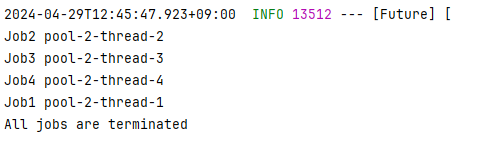
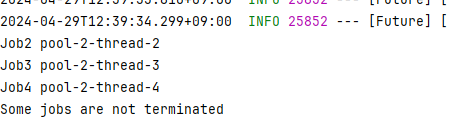
GITBOOK-352: No subject

diff --git a/spring-batch/jpa.md b/spring-batch/jpa.md
@@ -1,2 +1,118 @@
 # Jpa
 
+JpaItemWriter는 JPA를 사용하여 데이터베이스에 영속화하는데 사용되는 것으로 다음과 같은 기능을 한다.
+
+* Chunk 단위로 처리된 아이템들을 데이터베이스에 일괄적으로 쓰기 (flush)한다.
+* 트랜잭션이 성공적으로 완료되면, 현재 트랜잭션을 커밋한다.
+
+
+
+<figure><img src="../.gitbook/assets/image.png" alt=""><figcaption></figcaption></figure>
+
+<pre class="language-java" data-line-numbers><code class="lang-java">@Configuration
+@RequiredArgsConstructor
+@Slf4j
+public class JpaItemBatchConfig {
+
+    private final TbBatchListMapper tbBatchListMapper;
+
+    // job
+    @Bean
+    public Job jpaJob(JobRepository jobRepository, Flow jpaFlow) {
+        return new JobBuilder("JPA_JOB1", jobRepository)
+                .start( jpaFlow)
+                .end()
+                .build();
+    }
+
+
+    // flow
+    @Bean
+    public Flow jpaFlow(Step jpaStep ) {
+        return  new FlowBuilder&#x3C;SimpleFlow>("JPA_FLOW")
+                .start(jpaStep)
+                .build();
+
+    }
+
+    // step : chunk job
+    @Bean
+    public Step jpaStep(JobRepository jobRepository,
+                        PlatformTransactionManager transactionManager, 
+                        ItemReader jpaPagingItemReader,
+                        ItemProcessor jpaItemProcessor,
+                        ItemWriter jpaBatchItemWriter) {
+        return new StepBuilder("JPA_PAGE_READER", jobRepository)
+                .chunk(5, transactionManager)
+                .reader(jpaPagingItemReader)
+                .processor(jpaItemProcessor)
+                .writer(jpaBatchItemWriter)
+                .build();
+
+    }
+
+
+<strong>    @Bean
+</strong>    public JpaPagingItemReader&#x3C;TbBatchListEntity> jpaPagingItemReader(EntityManagerFactory en)  {
+        int batchSeq = tbBatchListMapper.getBatchListByBatchSeq("MIN");
+
+        // 쿼리 
+        TbBatchListProvider tbBatchListProvider = new TbBatchListProvider();
+        String sql = tbBatchListProvider.findJpaAll();
+
+        Map&#x3C;String, Object> parameterValues = new HashMap&#x3C;>();
+        parameterValues.put("batchSeq", batchSeq);
+        
+        // JpaNativeQueryProvider을 통한 쿼리 설정 
+        JpaNativeQueryProvider&#x3C;TbBatchListEntity> queryProvider = new JpaNativeQueryProvider&#x3C;>();
+        queryProvider.setSqlQuery(sql);
+        queryProvider.setEntityClass(TbBatchListEntity.class);
+
+        // JpaPagingItemReaderBuilder를 통한 JpaPagingItemReader 생성
+        return new JpaPagingItemReaderBuilder&#x3C;TbBatchListEntity>()
+                .name("TbBatchListEntity")
+                .entityManagerFactory(en)
+                .queryProvider(queryProvider)
+                .parameterValues(parameterValues)
+                .pageSize(5)
+                .saveState(true)
+                .build();
+    }
+    
+    
+    // 
+    @Bean
+    public ItemProcessor&#x3C;TbBatchListEntity, TbBatchListWriteEntity> jpaItemProcessor() {
+        return (tbBatchListEntity) -> {
+             TbBatchListDTO tbBatchListDTO =
+                     JpaMapper.INSTANCE.tbBatchListEntityToTbBatchListDTO(tbBatchListEntity);
+             TbBatchListWriteEntity tbBatchListWriteEntity =
+                     JpaMapper.INSTANCE.tbBatchListDTOToTbBatchListWriteEntity(tbBatchListDTO);
+
+            tbBatchListWriteEntity.setBatchSeq(0);
+            tbBatchListWriteEntity.setBatchSeqList(tbBatchListDTO.getBatchSeq());
+
+            return tbBatchListWriteEntity;
+        };
+    }
+
+    @Bean
+    public ItemWriter&#x3C;TbBatchListDTO> jpaIitemWriter() {
+        return items -> {
+            for (TbBatchListDTO item : items) {
+                System.out.println(item.toString());
+            }
+        };
+    }
+
+    @Bean
+    public ItemWriter&#x3C;TbBatchListWriteEntity> jpaBatchItemWriter(EntityManagerFactory en) {
+
+        JpaItemWriter&#x3C;TbBatchListWriteEntity> writer = new JpaItemWriter();
+        writer.setEntityManagerFactory(en);
+
+        return writer;
+    }
+
+}
+</code></pre>

diff --git a/spring-batch/springbatchargs.md b/spring-batch/springbatchargs.md
@@ -4,7 +4,7 @@
 
 ## 1. 요구사항
 
-<figure><img src="../.gitbook/assets/image (1) (1) (1) (1) (1) (1) (1) (1) (1) (1) (1) (1) (1) (1) (1) (1).png" alt=""><figcaption></figcaption></figure>
+<figure><img src="../.gitbook/assets/image (1) (1) (1) (1) (1) (1) (1) (1) (1) (1) (1) (1) (1) (1) (1) (1) (1).png" alt=""><figcaption></figcaption></figure>
 
 1. 배치 실행시 받은 파라메터를 JobParameter로 설정하여 배치 프로그램에서 사용할 수 있어여 한다.
 2. 베치 실행시 현재 일자가 자동 설정 되어야 한다.
@@ -209,7 +209,7 @@ public void run(ApplicationArguments args) throws Exception {
 
 다음과 같이 로그를 확인 할 수 있습니다.
 
-<figure><img src="../.gitbook/assets/image (1) (1) (1) (1) (1) (1) (1) (1) (1) (1) (1) (1) (1) (1) (1) (1) (1).png" alt=""><figcaption></figcaption></figure>
+<figure><img src="../.gitbook/assets/image (1) (1) (1) (1) (1) (1) (1) (1) (1) (1) (1) (1) (1) (1) (1) (1) (1) (1).png" alt=""><figcaption></figcaption></figure>
 
 myTasklet, myStep01, myStep02, myJob이 bean으로 등록 된 것을 확인 할 수 있으며 step에 정의된 Tasklet의 실행 로그를 확인 할 수 있습니다.
 

diff --git a/thread/javasyncasync/runnable-callable-future.md b/thread/javasyncasync/runnable-callable-future.md
@@ -8,7 +8,7 @@
 
 **병렬성(Parallelism)**은 여러 작업을 실제로 동시에 처리하는 것이다.
 
-<figure><img src="../../.gitbook/assets/image (1) (1) (1) (1) (1) (1) (1) (1) (1) (1) (1) (1) (1).png" alt=""><figcaption></figcaption></figure>
+<figure><img src="../../.gitbook/assets/image (1) (1) (1) (1) (1) (1) (1) (1) (1) (1) (1) (1) (1) (1).png" alt=""><figcaption></figcaption></figure>
 
 <table><thead><tr><th width="145">구분</th><th>동시성</th><th>병렬성</th></tr></thead><tbody><tr><td>개념</td><td>동시에 처리하는 것처럼 보이게 하는 것</td><td>여러 작업을 실제로 동시에 처리하는 것</td></tr><tr><td>사용 코어 수</td><td>싱글 코어</td><td>멀티 코어</td></tr><tr><td>동작 방식</td><td>싱글 코어에서 멀티 쓰레드(Multi thread)를 동작 시키는 방식</td><td>멀티 코어에서 멀티 쓰레드(Multi thread)를 동작시키는 방식</td></tr><tr><td>개념적 차이</td><td>논리적인 개념</td><td>물리적인 개념</td></tr></tbody></table>
 

diff --git a/thread/thread-pool.md b/thread/thread-pool.md
@@ -142,12 +142,12 @@ public void excutorServiceSample() throws InterruptedException {
 * 8\~12 Line: 3초 대기&#x20;
 * 결과: 작업이 모두 완료 될 때까지 2초 대기 후 초과하면 조건식이 만족하지 않아 모든 Task를 종료한다.
 
-<figure><img src="../.gitbook/assets/image (1) (1) (1) (1) (1) (1) (1) (1) (1) (1) (1).png" alt=""><figcaption></figcaption></figure>
+<figure><img src="../.gitbook/assets/image (1) (1) (1) (1) (1) (1) (1) (1) (1) (1) (1) (1).png" alt=""><figcaption></figcaption></figure>
 
 *   8\~12 Line: 1초 대기로 변경 하면 다음과 같은 결과를 얻는다.\
 
 
-    <figure><img src="../.gitbook/assets/image (1) (1) (1) (1) (1) (1) (1) (1) (1) (1) (1) (1).png" alt=""><figcaption></figcaption></figure>
+    <figure><img src="../.gitbook/assets/image (1) (1) (1) (1) (1) (1) (1) (1) (1) (1) (1) (1) (1).png" alt=""><figcaption></figcaption></figure>
 
 
 *   32 \~ 38 Line: 다음과 같이 여러 가지 상황을 만들어서 확인해 보자\

diff --git a/spring-batch/sample/hello-world.md b/spring-batch/sample/hello-world.md
@@ -431,7 +431,7 @@ public class HelloWorldApplication {
 
 * 스프링"배치  시작 전에 HelloWorldConfig가 로딩 되면서 job, step, tasklet이 등록 되는 과정을 로그를 통해서 확인 할 있습니다.
 
-<figure><img src="../../.gitbook/assets/image (1) (1) (1) (1) (1) (1) (1) (1) (1) (1) (1) (1) (1) (1) (1) (1) (1) (1) (1).png" alt=""><figcaption></figcaption></figure>
+<figure><img src="../../.gitbook/assets/image (1) (1) (1) (1) (1) (1) (1) (1) (1) (1) (1) (1) (1) (1) (1) (1) (1) (1) (1) (1).png" alt=""><figcaption></figcaption></figure>
 
 * 스프링 배치가 실행 되고 job에 정의한 step01, step02가 순서적으로 실행 되면서 tasklet를 실행 한 로그를 확인 할 수 있습니다.
 

diff --git a/spring-batch/undefined/skip-retry.md b/spring-batch/undefined/skip-retry.md
@@ -61,7 +61,7 @@ public Step chunkErrorStep( JobRepository jobRepository,
 *   결과: 6개 item을  Chunk 2로 6개를 읽는 동안 2회 에러가 발생하여 모두 스킵되어 작업은 성공적으로 종료 한다. 몰론 에러 2개는 처리 되지는 않는다.\
 
 
-    <figure><img src="../../.gitbook/assets/image (1) (1) (1) (1) (1) (1) (1).png" alt=""><figcaption><p><br></p></figcaption></figure>
+    <figure><img src="../../.gitbook/assets/image (1) (1) (1) (1) (1) (1) (1) (1).png" alt=""><figcaption><p><br></p></figcaption></figure>
 
     <figure><img src="../../.gitbook/assets/image (4) (1) (1).png" alt=""><figcaption></figcaption></figure>
 

diff --git a/java/i-o/nio-non-blocking-io/selector.md b/java/i-o/nio-non-blocking-io/selector.md
@@ -2,7 +2,7 @@
 
 스레드는 운영 채제애 비용을 먾이 들이는 작업으로 하나의 스레드에서 여러 채널을 관리하며 비용 소모가 적게 들게 되니다. 이런 경우 Selector에 여러개의 스레드를 묶어서 하나의 스레드로 처리하게 됩니다.
 
-<figure><img src="../../../.gitbook/assets/image (1) (1) (1) (1) (1) (1) (1) (1) (1) (1).png" alt=""><figcaption></figcaption></figure>
+<figure><img src="../../../.gitbook/assets/image (1) (1) (1) (1) (1) (1) (1) (1) (1) (1) (1).png" alt=""><figcaption></figcaption></figure>
 
 작업 순서는 다음과 같습니다.
 

diff --git a/spring-batch/mybatis.md b/spring-batch/mybatis.md
@@ -217,6 +217,6 @@ public ItemReader  myBatisCursorItemReader(SqlSessionFactory sqlSessionFactory) 
 * 36 Line: Cursor 쿼리 사용 변경
 * 결과 : 쿼리는 한번 실행 되고 Chunk  Size만큼 읽어서 처리 한다.
 
-<figure><img src="../.gitbook/assets/image (1).png" alt=""><figcaption></figcaption></figure>
-
 <figure><img src="../.gitbook/assets/image (1) (1).png" alt=""><figcaption></figcaption></figure>
+
+<figure><img src="../.gitbook/assets/image (1) (1) (1).png" alt=""><figcaption></figcaption></figure>

diff --git a/spring-boot-transaction/transaction-manager.md b/spring-boot-transaction/transaction-manager.md
@@ -56,7 +56,7 @@
 
 각 트랜잭션에서의 변경 내용이 COMMIT이나 ROLLBACK 여부에 상관 없이 다른 트랜잭션에서 값을 읽을 수 있다
 
-<figure><img src="../.gitbook/assets/image (1) (1) (1) (1) (1) (1) (1) (1) (1) (1) (1) (1) (1) (1).png" alt="" width="563"><figcaption></figcaption></figure>
+<figure><img src="../.gitbook/assets/image (1) (1) (1) (1) (1) (1) (1) (1) (1) (1) (1) (1) (1) (1) (1).png" alt="" width="563"><figcaption></figcaption></figure>
 
 ### 2-2. READ COMMITTED
 

diff --git a/spring-batch/job.md b/spring-batch/job.md
@@ -52,7 +52,7 @@ spring.batch.job.names = testJob, test2Job # , 구분으로 지정된 Job 실행
 
 ## 4. 잡(Job) 구성 요소
 
-<figure><img src="../.gitbook/assets/image (1) (1) (1) (1) (1) (1) (1) (1) (1) (1) (1) (1) (1) (1) (1).png" alt=""><figcaption></figcaption></figure>
+<figure><img src="../.gitbook/assets/image (1) (1) (1) (1) (1) (1) (1) (1) (1) (1) (1) (1) (1) (1) (1) (1).png" alt=""><figcaption></figcaption></figure>
 
 ### 4-1. JobLauncher
 
